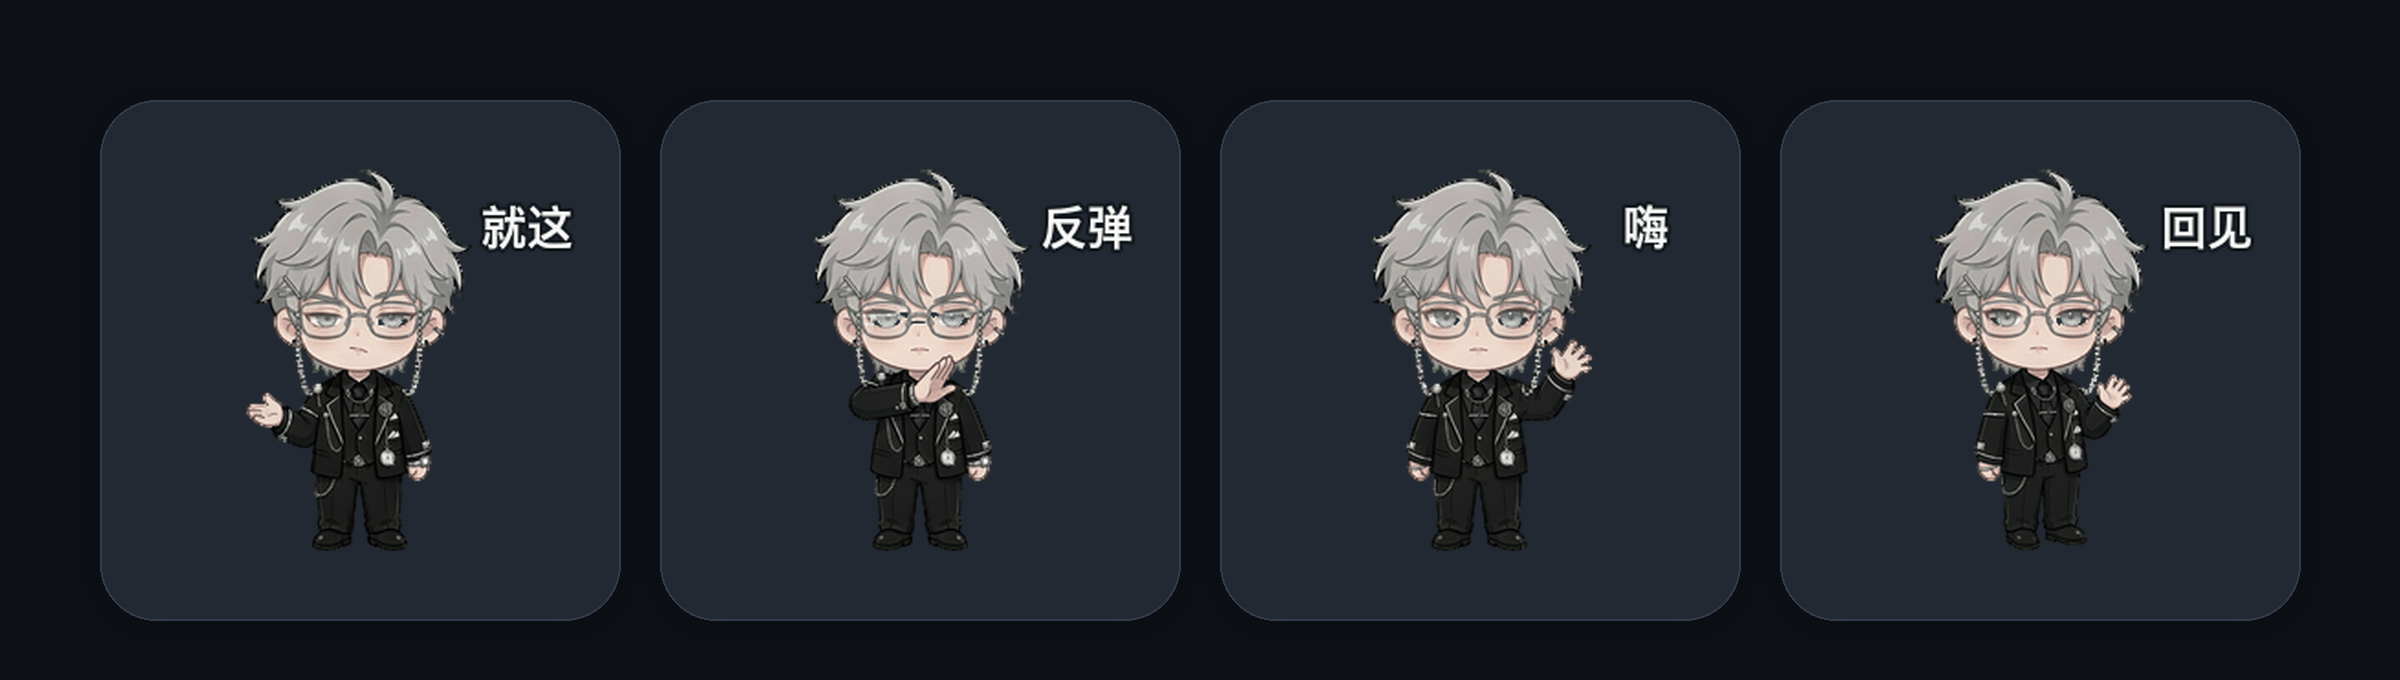
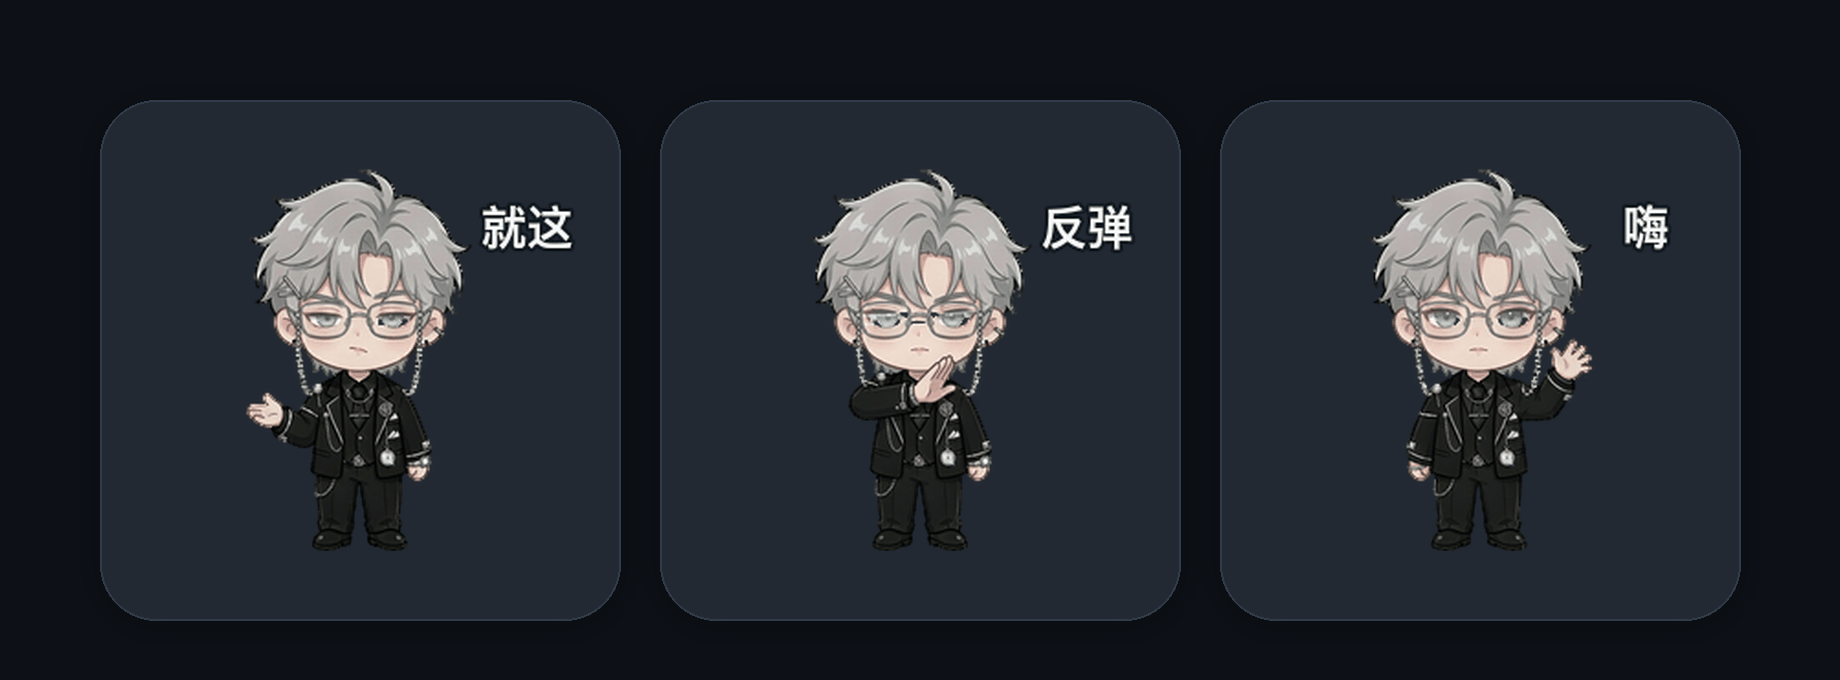
docs: 预览图移除「回见」一张，改为三格
按作者要求去掉 16_再会，剩下 就这 / 反弹 / 招呼 三张，
画布随卡片数收窄到 1840x680，图注与 CHANGELOG 同步。

Changed region(s): [[0.0929, 0.1235, 0.9603, 0.9265], [0.031, 0.1235, 0.0929, 0.9265]]

diff --git a/CHANGELOG.md b/CHANGELOG.md
@@ -4,7 +4,7 @@
 
 ### 新增
 - **`package.sh`**：一条命令打包成可安装 zip（`./package.sh` → `dist/wechat-sticker-pack.zip`），并在产出前自检层级、垃圾文件、必需文件。
-- **README 顶部成品预览图**：`docs/preview-light.png` / `preview-dark.png`，用 `<picture>` 按 `prefers-color-scheme` 自动切换，深色主题下不会出现白色底块。取 4 张姿势差异最大的成品（就这 / 反弹 / 招呼 / 再会）。
+- **README 顶部成品预览图**：`docs/preview-light.png` / `preview-dark.png`，用 `<picture>` 按 `prefers-color-scheme` 自动切换，深色主题下不会出现白色底块。取 3 张姿势差异最大的成品（就这 / 反弹 / 招呼）。
 
 ### 修复
 - **打包会把 `.git/` 塞进 zip**：官方 `package_skill.py` 递归压整个目录且不看 `.gitignore`，在仓库根目录直接运行产出的包为 209KB，包含全部提交历史。改为先复制运行必需文件到临时暂存目录再打包，产物 36KB / 12 文件。README 与 `CLAUDE.md` 同步写明「打包只走 `package.sh`」。

diff --git a/README.md b/README.md
@@ -9,10 +9,10 @@
 <p align="center">
   <picture>
     <source media="(prefers-color-scheme: dark)" srcset="docs/preview-dark.png">
-    <img src="docs/preview-light.png" alt="一套 16 张成品表情包中的 4 张：就这、反弹、招呼、再会，均为 240×240 透明 GIF 的静帧" width="100%">
+    <img src="docs/preview-light.png" alt="一套 16 张成品表情包中的 3 张：就这、反弹、招呼，均为 240×240 透明 GIF 的静帧" width="100%">
   </picture>
   <br>
-  <sub>实拍成品 · 16 张里取 4 张（就这 / 反弹 / 招呼 / 再会），240×240 透明 GIF 静帧</sub>
+  <sub>实拍成品 · 16 张里取 3 张（就这 / 反弹 / 招呼），240×240 透明 GIF 静帧</sub>
 </p>
 
 ---
